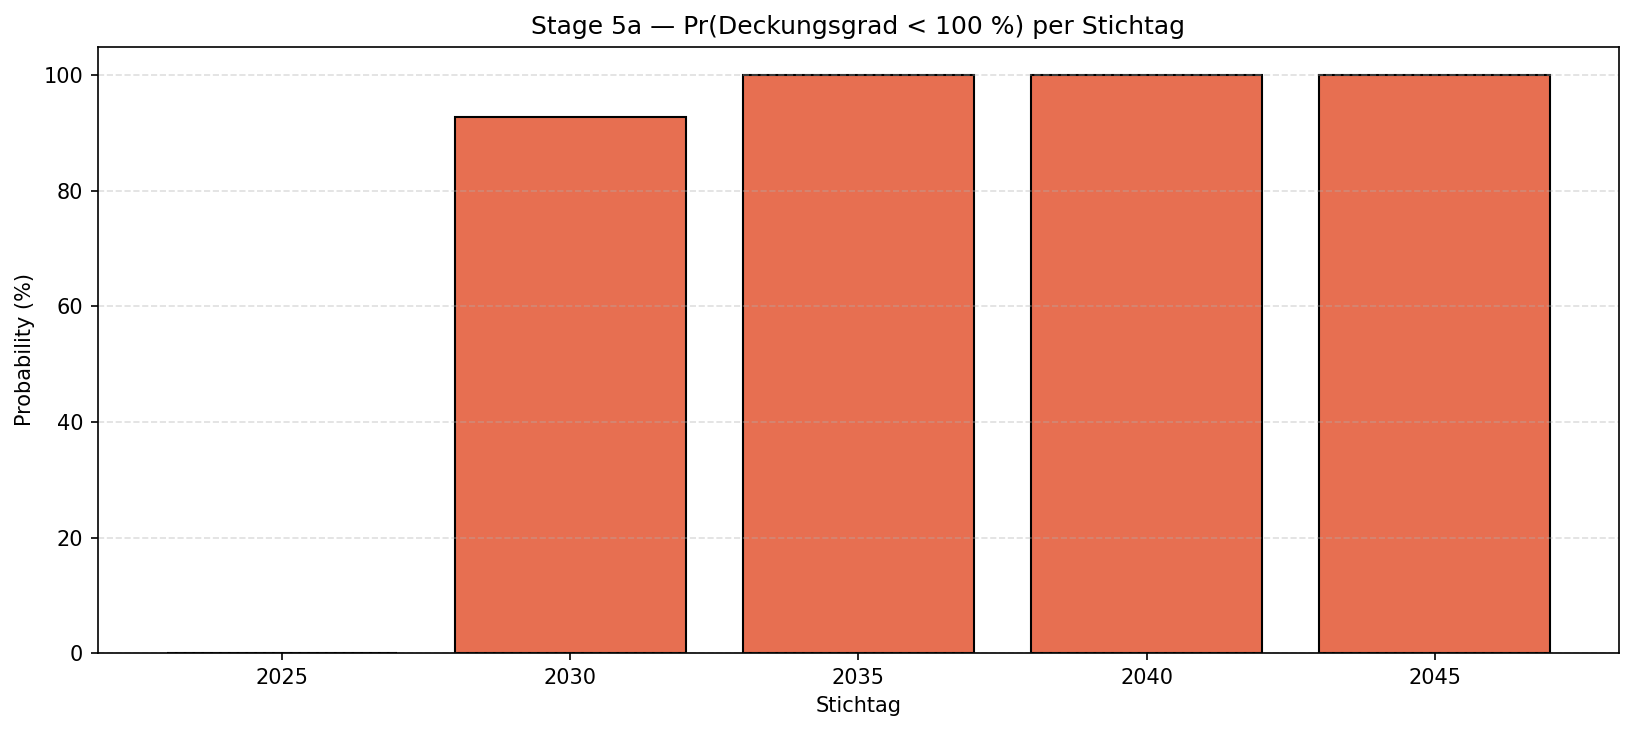
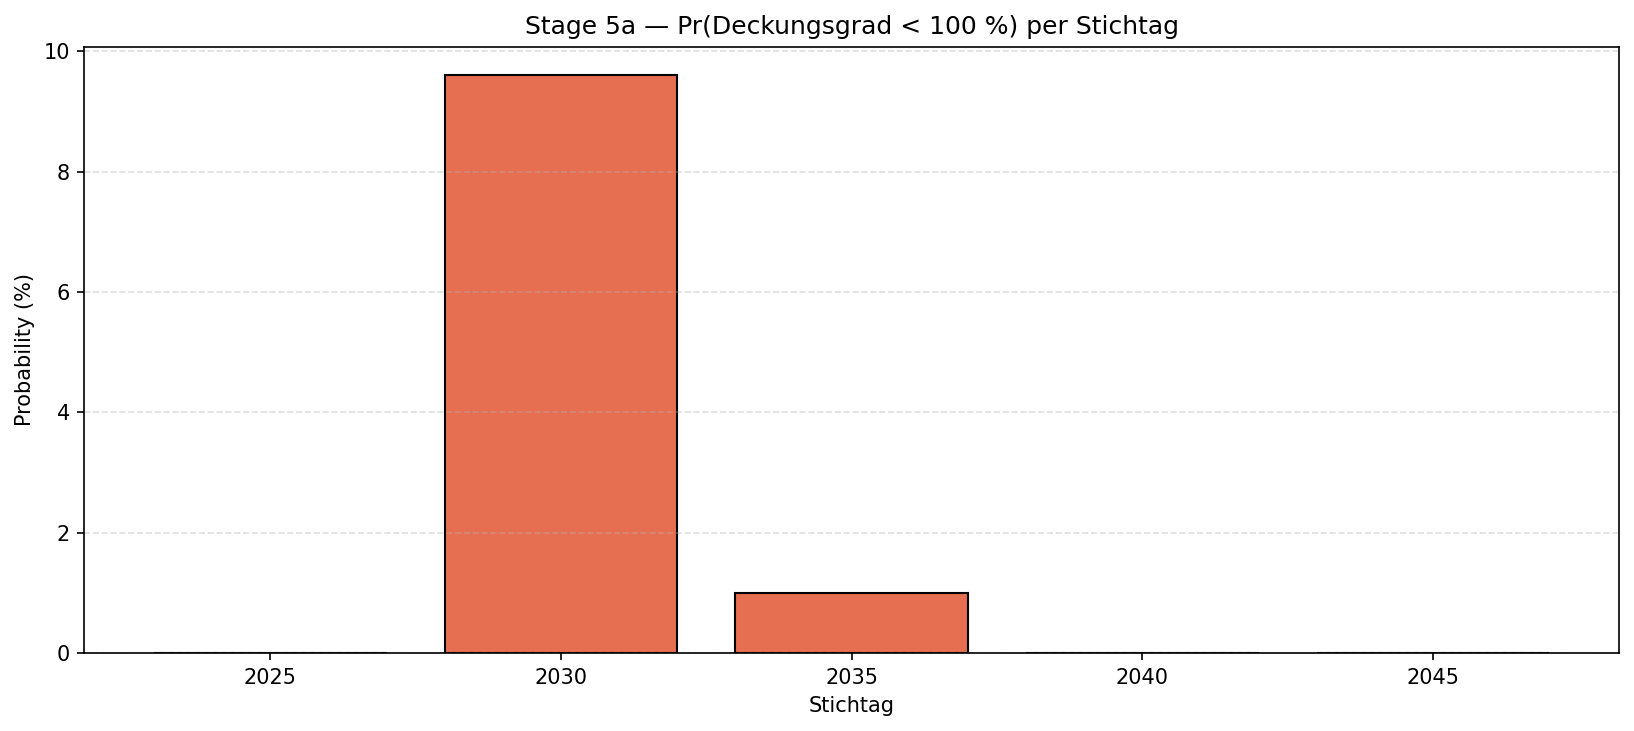
Stage 5a: add CSH cash account to Vorsorgevermögen (fix asset-runoff artefact)
Before this change, _vorsorgevermoegen_at(t*) summed only the market value
of asset cashflows still outstanding at t*. Bond tranches that had already
matured were silently dropped from the asset base, mechanically collapsing
the Deckungsgrad-Pfad (e.g. DG 2035 ≈ 0.53). That is an accounting
artefact, not an economic finding.

Fix: Vorsorgevermögen(t*, path) = CSH_cash(t*) + MV_remaining_bonds(t*, path).

  CSH_cash(t*):
    - par, flat, path-independent
    - sum of ALL fund cashflows (asset + liability, native signs) with
      event_time_years < t*: received bond coupons + matured principals,
      contributions, pension payments, admin costs
    - represented as an ACTUS CSH contract per valuation date
      (contractID f"CASH_{vyear}", notionalPrincipal = cash)
    - RISK_CONTRIB included as real cash received; the model-wide
      asymmetry (no offsetting risk-benefit outflow) is inherited
      uniformly here and documented elsewhere

  MV_remaining_bonds(t*, path):
    - unchanged logic: cashflows with event_time_years >= t* priced
      via HullWhite.zcb_price(t*, t_k, r_t*^path)

Edge handling: partition is et >= t* (remaining) vs et < t* (cash), with
zcb_price(t*, t*) = 1 so cashflows exactly at t* count as remaining at par
— no double-counting, no gap.

At t* = base_year, cash = 0 (no pre-t0 flows), so VV(t0) is unchanged and
the existing DG_t0 MC≈deterministic assert (j) keeps passing.

New assert (k) in the quickstart guards smooth VV evolution: mean VV
[…]

diff --git a/awesome_actus_lib/pension/analysis/stochastic_alm.py b/awesome_actus_lib/pension/analysis/stochastic_alm.py
@@ -9,11 +9,19 @@ Two analytics:
   - t0 NPV distributions for assets and liabilities, using the
     path-integrated short rate exp(-Σ r_path(t_j) Δt).
   - DG-Pfad at multiple valuation dates t*:
-      Vorsorgevermögen(t*, path) = Σ remaining asset CF_k × P_HW(t*, t_k; r_t*^path)
+      Vorsorgevermögen(t*, path) = CSH_cash(t*)
+                                       [par, flat, path-independent,
+                                        = Σ pre-t* fund cashflows
+                                          (asset + liability, native signs)]
+                                 + Σ_{t_k >= t*} asset_CF_k · P_HW(t*, t_k; r_t*^path)
       Vorsorgekapital(t*)        = Σ active AGH(t*)×hc(t*)
                                  + Σ retired pension(t*)×hc(t*) × ä_age(t*)
                                   [flat policy.technical_rate — Option α]
     DG(t*, path) = Vorsorgevermögen / Vorsorgekapital
+
+    Flat cash = deliberate no-reinvestment assumption: pre-t* fund
+    cashflows accumulate at par with zero growth. Future stage could
+    layer a deposit rate on the cash account.
 """
 
 from __future__ import annotations
@@ -25,6 +33,7 @@ from typing import Dict, List, Optional, Sequence, Tuple
 import numpy as np
 import pandas as pd
 
+from ...models.CSH_gen import CSH
 from ...models.cashFlowStream import CashFlowStream
 from ...stochastic_rates.models.base import ShortRateModel
 from ...stochastic_rates.simulation import SimulationResult
@@ -274,27 +283,66 @@ class StochasticALMAnalysis:
         return vk
 
     def _vorsorgevermoegen_at(self, year: int, r_t_paths: np.ndarray) -> np.ndarray:
+        """Vorsorgevermögen(t*, path) = CSH_cash(t*) + MV_remaining_bonds(t*, path).
+
+        CSH_cash(t*) — par, flat, path-independent. Sum of ALL fund cashflows
+        that occurred strictly BEFORE t*, native payoff signs:
+          + asset CF (received bond coupons + matured principals)
+          + liability CF (contributions positive, pensions/admin negative)
+        RISK_CONTRIB is included as real cash received; the model-wide
+        asymmetry (no offsetting risk-benefit outflow) is inherited uniformly
+        here and is documented elsewhere. Represented as an ACTUS CSH
+        contract for portfolio completeness — its notionalPrincipal IS the
+        par cash term used in VV.
+
+        MV_remaining_bonds(t*, path) — path-dependent. Cashflows with
+        event_time_years >= t* priced via HullWhite.zcb_price(t*, t_k, r_t*^path).
+        A cashflow exactly at t* counts as remaining (zcb_price(t*,t*)=1=par),
+        so the partition is clean.
+
+        At t* = base_year cash = 0 (no pre-t0 flows), so VV(t0) is unchanged
+        relative to the original implementation.
+        """
         base_year = self.base_date.year
         t_star = float(year - base_year)
-        df = self.asset_cf.events_df
-        df = df[df["payoff"] != 0.0]
-        if df.empty:
-            return np.zeros_like(r_t_paths)
-        et = self._event_times_years(df)
-        po = df["payoff"].astype(float).values
-        mask = et >= t_star
-        et_r = et[mask]
-        po_r = po[mask]
-        if len(et_r) == 0:
-            return np.zeros_like(r_t_paths)
-        vv = np.zeros(len(r_t_paths))
-        for k, t_k in enumerate(et_r):
-            zcb_paths = np.array([
-                self.model.zcb_price(t_star, float(t_k), r_t=float(r))
-                for r in r_t_paths
-            ])
-            vv += po_r[k] * zcb_paths
-        return vv
+
+        # --- 1) CSH cash account (par, flat, path-independent) -----------
+        a_df = self.asset_cf.events_df
+        a_df = a_df[a_df["payoff"] != 0.0]
+        a_et = self._event_times_years(a_df) if not a_df.empty else np.array([])
+        a_po = a_df["payoff"].astype(float).values if not a_df.empty else np.array([])
+
+        l_df = self.liability_cf.events_df
+        l_df = l_df[l_df["payoff"] != 0.0]
+        l_et = self._event_times_years(l_df) if not l_df.empty else np.array([])
+        l_po = l_df["payoff"].astype(float).values if not l_df.empty else np.array([])
+
+        cash = float(np.sum(a_po[a_et < t_star])) + float(np.sum(l_po[l_et < t_star]))
+
+        cash_csh = CSH(
+            contractID=f"CASH_{year}",
+            contractRole="RPA",
+            creatorID="PK_ALM",
+            currency="CHF",
+            notionalPrincipal=cash,
+            statusDate=f"{year}-01-01T00:00:00",
+        )
+        cash_par = float(cash_csh.terms["notionalPrincipal"].value)
+
+        # --- 2) MV of remaining bonds (path-dependent) -------------------
+        mv = np.zeros(len(r_t_paths))
+        if a_et.size:
+            mask = a_et >= t_star
+            et_r = a_et[mask]
+            po_r = a_po[mask]
+            for k, t_k in enumerate(et_r):
+                zcb_paths = np.array([
+                    self.model.zcb_price(t_star, float(t_k), r_t=float(r))
+                    for r in r_t_paths
+                ])
+                mv += po_r[k] * zcb_paths
+
+        return cash_par + mv
 
     def deckungsgrad_path(self, valuation_years: Sequence[int]) -> pd.DataFrame:
         base_year = self.base_date.year

diff --git a/awesome_actus_lib/pension/examples/Stage5a_pension_quickstart.py b/awesome_actus_lib/pension/examples/Stage5a_pension_quickstart.py
@@ -607,6 +607,28 @@ assert rel_j < 0.20, (
 print(f"  (j) DG @ t0 MC mean = {dg_t0_mc:.4f} vs deterministic = {dg_t0_det:.4f} "
       f"(rel {rel_j:.2%}). OK.")
 
+# (k) Maturing tranche must move bond->cash, not bond->void.
+# Between consecutive Stichtage, mean Vorsorgevermögen must not collapse
+# by more than 30%. A bond maturing within the interval converts to par cash
+# (CSH account), so total VV evolves smoothly rather than dropping by the
+# notional. Without the CSH cash account, VV drops by the full notional of
+# any maturing tranche — that artefact is what assert (k) guards against.
+vv_means = []
+years_sorted = sorted(val_years)
+for y in years_sorted:
+    vv_means.append(float(np.mean(dg_path[dg_path["year"] == y]["vv"])))
+for i in range(1, len(years_sorted)):
+    y_prev, y_curr = years_sorted[i - 1], years_sorted[i]
+    vv_prev, vv_curr = vv_means[i - 1], vv_means[i]
+    rel_drop = (vv_prev - vv_curr) / (abs(vv_prev) + 1e-30)
+    assert rel_drop < 0.30, (
+        f"(k) Vorsorgevermögen collapse between {y_prev}->{y_curr}: "
+        f"{vv_prev:,.0f} -> {vv_curr:,.0f} (drop {rel_drop:.2%}). "
+        f"Maturing tranche likely lost to void instead of cash."
+    )
+print(f"  (k) Smooth VV evolution across {years_sorted}: "
+      f"max consecutive drop < 30%. OK.")
+
 
 # =============================================================================
 # 4. PLOTS — Stage 5a-specific (Stage 4 plots intentionally not duplicated)
